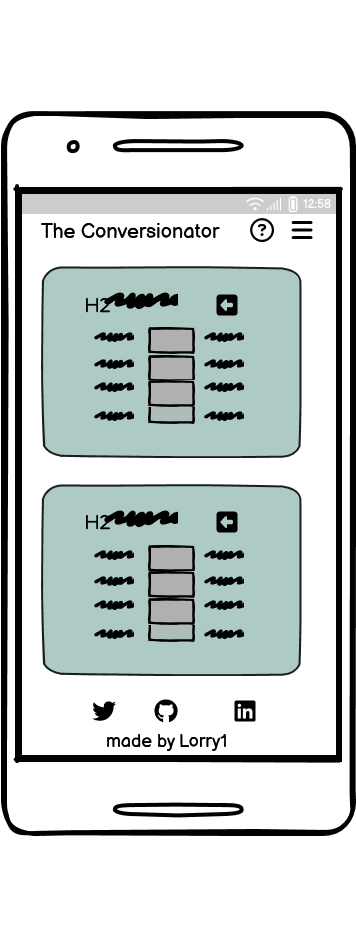
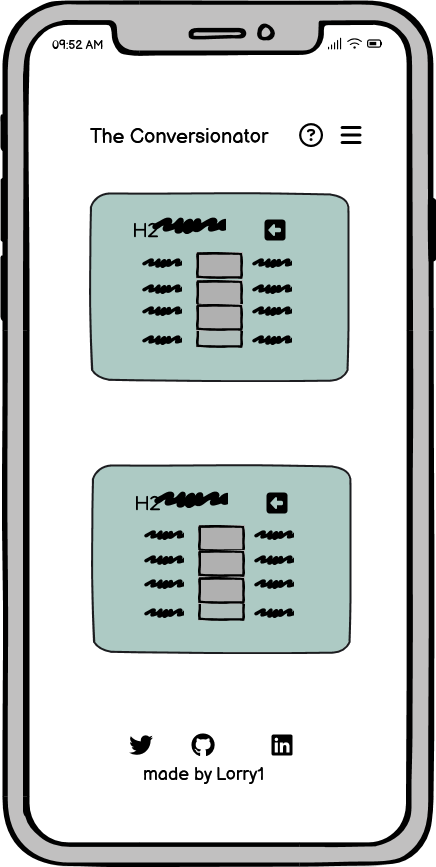
docs(readme): Add wireframe for tablet and mobile view

diff --git a/README.md b/README.md
@@ -99,8 +99,9 @@ Link to [responsive Mockup]()
 ![Wireframe-Destop](assets/feature-img/wf-desktop-pp2.png)
 
 - Tablet
+  - Screensize 768px
 
-![wire-tablet]()
+![wire-tablet](assets/feature-img/wf-tablet-pp2.png)
 
 - Mobile
  - Screensize 375px 
